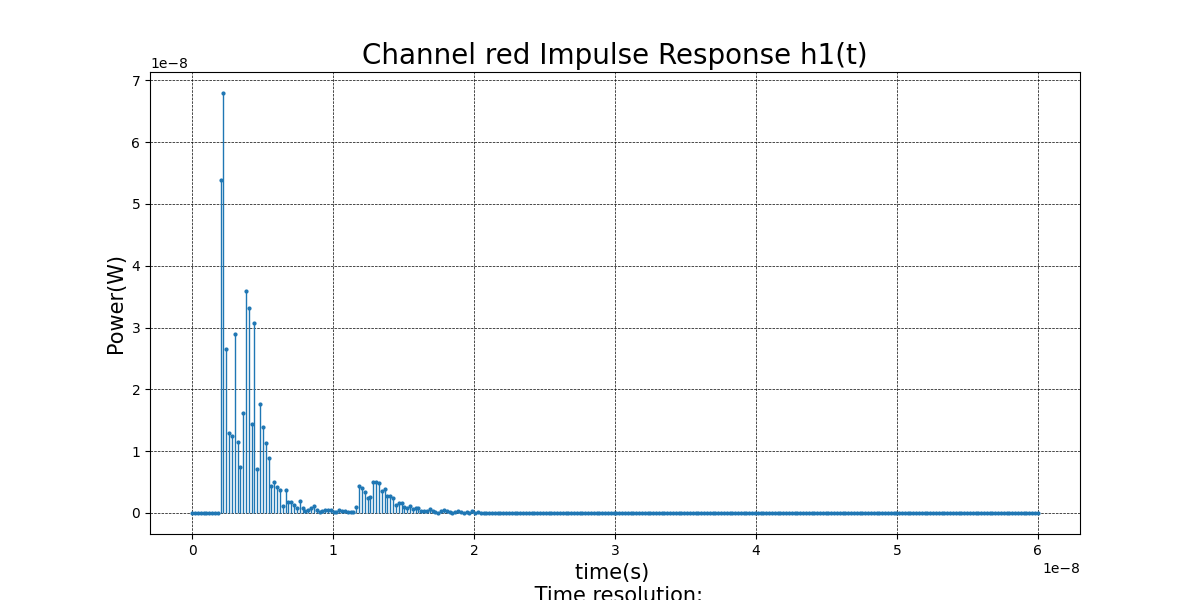
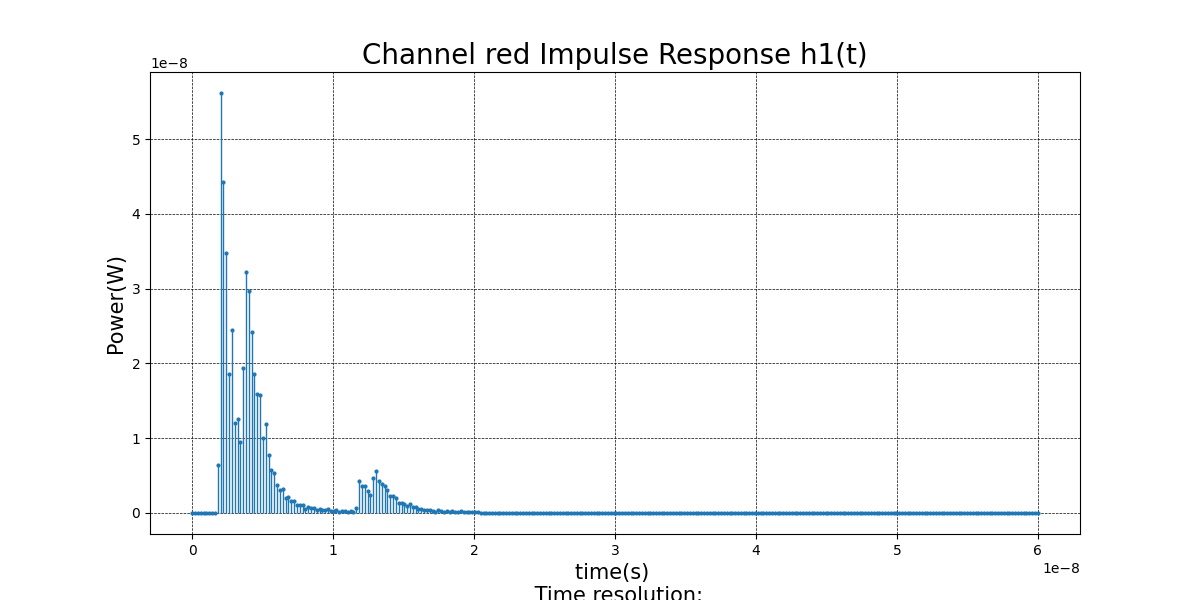
Add all files

diff --git a/qled_csk_recursive.py b/qled_csk_recursive.py
@@ -524,6 +524,10 @@ class Recursivemodel:
 
             elif i>=2:                
 
+                #Time-Delay computing
+                delay_hlast_er[i] = np.sum(np.reshape(delay_hlast_er[i-1],(1,-1)) + tDelay_ij,axis=1)/room.no_points
+                self.delay_hk[i] =  tDelay_ij[int(tx_index_point),:] + delay_hlast_er[i]
+
                 #Computes the last h_er to compute h_k  
                 #hlast_er[i] = np.multiply(hlast_er[i-1],np.multiply(room.reflectance_vectors,np.reshape(np.sum(dP_ij,axis=0),(-1,1))))
                 for color in range(Constants.NO_LEDS):
@@ -535,9 +539,7 @@ class Recursivemodel:
                     #print("h_k->",np.shape(self.h_k[i]))                 
 
 
-                #Time-Delay computing
-                delay_hlast_er[i] = np.sum(np.reshape(delay_hlast_er[i-1],(1,-1)) + tDelay_ij,axis=1)/room.no_points
-                self.delay_hk[i] =  tDelay_ij[int(tx_index_point),:] + delay_hlast_er[i]
+                
 
 
                 print("|>>--------------h{}-computed--------------<<|".format(i))              
@@ -801,7 +803,7 @@ pd1.get_parameters()
 room = Indoorenvironment("Room")
 room.set_size([5,5,3])
 room.set_noreflections(3)
-room.set_pointresolution(1/4)
+room.set_pointresolution(1/8)
 room.set_reflectance('ceiling',[0.8,0.8,0.8,0.8])
 room.set_reflectance('west',[0.8,0.8,0.8,0.8])
 room.set_reflectance('north',[0.8,0.8,0.8,0.8])
